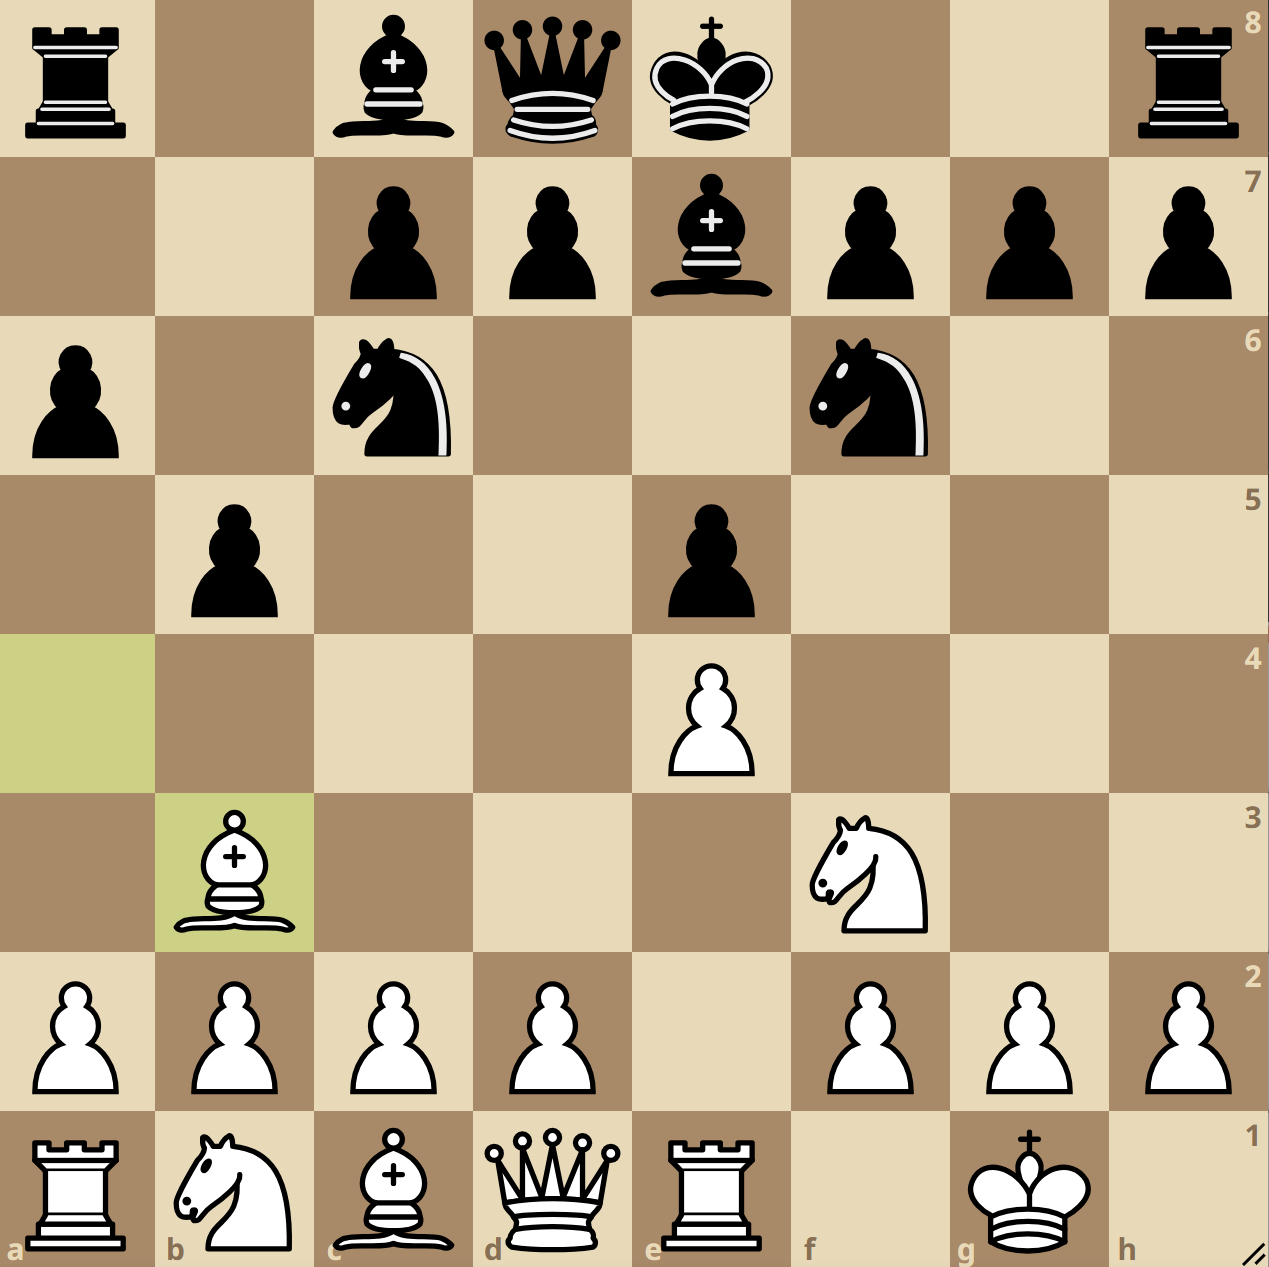
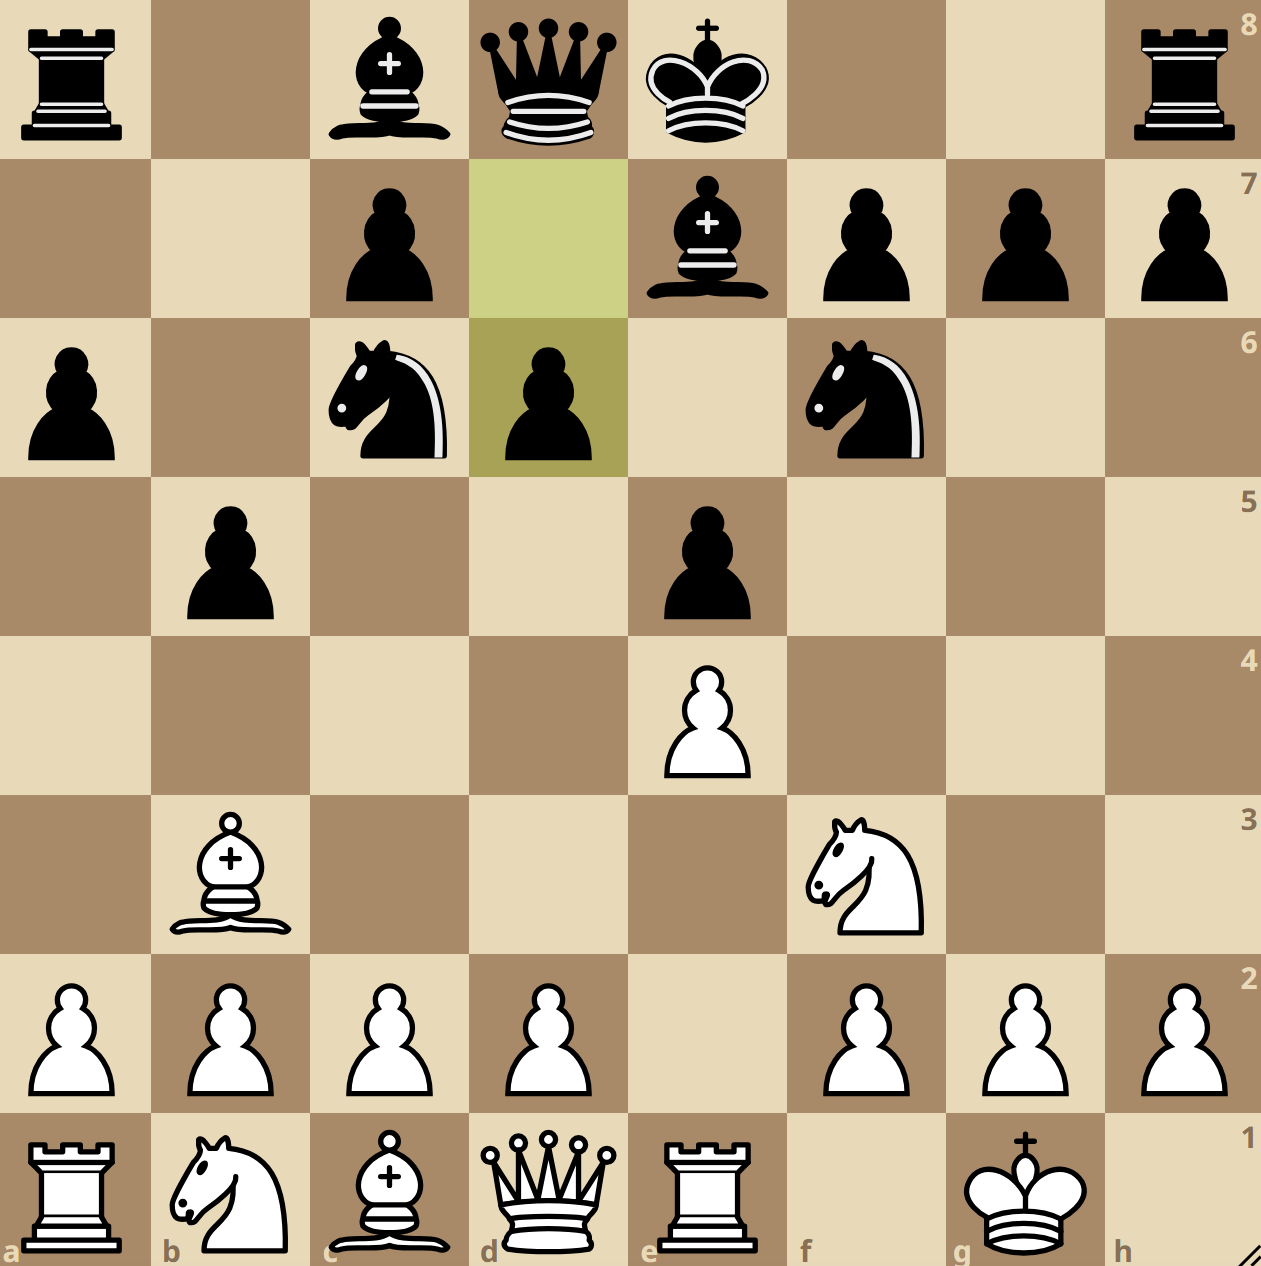
added round 2 of my first post!

diff --git a/public/posts/my-first-post/index.html b/public/posts/my-first-post/index.html
@@ -214,6 +214,24 @@
 					
 				
 			
+				
+				
+					
+						
+						
+						
+						
+						
+							<li>
+								<a href="#round-2" class="nav-round-2">
+									Round 2
+								</a>
+							</li>
+						
+						
+					
+				
+			
 		</ul>
 	</div>
 
@@ -447,21 +465,88 @@ Pawns are just the square alone, so <strong>e4</strong> means &ldquo;pawn to e4&
 <li><strong>O-O</strong> = kingside castle</li>
 <li><strong>O-O-O</strong> = queenside castle</li>
 </ul>
-<p>If you don&rsquo;t understand it thats okay too as this will be more focused on the emotions rather than the actual game itsself.</p>
+<p>If you don&rsquo;t understand it thats okay too as this will be more focused on the emotions rather than the actual game itself.</p>
+<p>One more thing, I will be using the term touch-move, meaning that if you touch a certain piece, you <em>must</em> move that said piece.</p>
 <h2 id="round-1">Round 1</h2>
 <p><em>I would have provided the pictures my mother have took during my games but I have not asked for my opponents consent, so unforunately there will be not many photos here</em></p>
-<p>I was paired against Mahin Ganesan in the first round with the white pieces. He actually went to UVA and graduated a few years ago.</p>
+<p>I was paired against Mahin Ganesan (2241) in the first round with the white pieces. He actually went to UVA and graduated a few years ago.</p>
 <p>The game started off with:</p>
 <ol>
-<li>e4 e5 2. Nf3 Nc6 3. Bb5 a6 4. Ba4 Nf6 5. O-O Be7 6. Re1 b5 7. Bb3</li>
+<li>e4 e5 2. Nf3 Nc6 3. Bb5 a6 4. Ba4 Nf6 5. O-O Be7 6. Re1 b5 7. Bb3 d6</li>
 </ol>
 <p><img src="pos1.png" alt="alt text"></p>
 <p>During the game, my opponent mixed up his lines as he wanted to play d5 to play the Marshall Gambit but hasn&rsquo;t castled yet. Since he touched his d-pawn already, he had to move it (touch-move rule), this is still a real line to play as black, but rather it being more tactical, it&rsquo;s now more of a slow, manuvering game.
 The main line Marshall Gambit follows: 7. &hellip; O-O 8. c3 d5 9. exd5 Nxd5 10. Nxe5 Nxe5 11. Rxe5 c6 12. d4 Bd6 13. Re1 Qh4</p>
-<p>d6 8. c3 Na5 9. h3 Nxb3 10. axb3 c5 11. d3 O-O 12. Nbd2 Qc7 13. Nf1 Re8 14. Ng3 a5 15. Kh1
-<img src="pos2.png" alt="alt text">
-Bd7 16. Qc2 Ra7 17. Be3 Rb8 18. Kg1 Raa8 19. Ra2 a4 20. bxa4 bxa4 21. Rc1 Rb7 22. Nd2 d5 23. Bg5 Qc6 24. d4 cxd4 25. cxd4 Qe6 26. exd5 Nxd5 27. Be3 Nb4 *</p>
-<p>WIP :3</p>
+<ol start="8">
+<li>c3 Na5 9. h3 Nxb3 10. axb3 c5 11. d3 O-O 12. Nbd2 Qc7 13. Nf1 Re8 14. Ng3 a5 15. Kh1
+<img src="pos2.png" alt="alt text"></li>
+</ol>
+<p>During the game, I evaluated the position was me being able to do nothing&ndash;by moving my king back and forth&ndash; but it&rsquo;s incorrect. If I just waited and did nothing, my opponent will eventually roll me down on the queen-side, hence why I should have played Nh4 to eventually get a knight on f5, as in the traditional Spanish lines the square I want is f5 and eventually get a king-side counterattack.</p>
+<p>15 &hellip; Bd7 16. Qc2 Ra7 17. Be3 Rb8 18. Kg1 Raa8
+<img src="pos3.png" alt="alt text"></p>
+<p>A few moves ago, my apponent moved his rook to a7, persumably to double up the rooks on the a-file, but I think he missed the move bishop to e3, pinning the c-pawn to the rook, meaning that if the c-pawn moves, the rook would be under attack he would lose it. Looking very annoyed, he moved his rook back to a1, and I couldn&rsquo;t help but smile.</p>
+<ol start="19">
+<li>Ra2 a4 20. bxa4 bxa4 21. Rc1 Rb7 22. Nd2 d5 23. Bg5 Qc6 24. d4
+<img src="pos4.png" alt="alt text"></li>
+</ol>
+<p>Oops, I blundered a pawn randomly&hellip;</p>
+<ol start="24">
+<li>&hellip; cxd4 25. cxd4 Qe6
+<img src="pos5.png" alt="alt text"></li>
+</ol>
+<p>My opponent got spooked out here actually, because he thought after taking the pawn on d4 after trading the queens, he thought I had e5, but it does not work! He can counterattack my bishop on g5! After I take his knight, he does <em>not</em> take my bishop right away, instead he can play bishop to d6, effectively trapping my bishop.</p>
+<ol start="26">
+<li>exd5 Nxd5 27. Be3
+<img src="pos6.png" alt="alt text"></li>
+</ol>
+<p>The final blunder of the game by me, the position was already difficult to play both practically and under time pressure, and my opponent plays the right move Nb4!, double attacking my rook and queen, effectively ending the game.</p>
+<p>We both analyzed the game after, and I actually found out that his favorite opening is the Marshall Gambit, also my favorite opening! A little bummed that I had a chance in the game, but again he was almost 700 rating points higher than I was.</p>
+<p>Results after round one:
+<img src="results.png" alt="alt text"></p>
+<p>There was actually draw on the first board with a 557 point discrepancy! A wonderful game by the underdog!</p>
+<h2 id="round-2">Round 2</h2>
+<p>I was paired against Jay Bell (1400) with the black pieces.</p>
+<p>The game began as:</p>
+<ol>
+<li>e4 e5 2. Nf3 Nc6 3. d4 exd4 4. Nxd4 Bc5 5. Nxc6 Qf6 6. Qe2 bxc6 7. Nc3 d6 8. g3 Ne7 9. Bg2 Ba6
+<img src="pos7.png" alt="alt text"></li>
+</ol>
+<p>This move looks like that I&rsquo;m giving away my a6 bishop for free, but if he takes it with his queen, I take his f2 pawn with my queen! It&rsquo;s a fork between his king and his light-squared bishop, meaning that I get my bishop back and his king becomes <em>significantly</em> weaker! My opponent did not take bait to his credit.</p>
+<ol start="10">
+<li>Qf3 Bd4 11. Bd2 Rb8 12. Qxf6 Bxf6 13. b3 O-O 14. Rd1 Rfe8 15. f4 Bd4 16. Ne2 Bb6 17. Bc3
+<img src="pos8.png" alt="alt text"></li>
+</ol>
+<p>The computer engine evaluates this position was &ldquo;-2.1&rdquo;, which basically means that this is &ldquo;better&rdquo; for black. The best move suggests going Nd5, threatening to go Ne3, forking the bishop and rook with both cannot be defended. If my opponent took the knight with the pawn, you lose both the knight and the bishop. If my opponent goes bishop back to d2, the line follows: 18. &hellip; Nf6 19. Nc3 d5 20. e5 Ng4 Rc1 21. f6 - White will eventually lose the e5 pawn and will be a pawn down.</p>
+<p>But I took the knight with the bishop on e2, plummeting the engine evaluation down to &ldquo;+0.2&rdquo;, meaning that white is a teeny tiny bit better.</p>
+<ol start="17">
+<li>&hellip; Bxe2 18. Kxe2 d5 19. e5 Ng6 20. a3</li>
+</ol>
+<p><img src="pos9.png" alt="alt text"></p>
+<p>This is similar to the line I showed above, I played the move f3, effectively meaning that I am a pawn up.</p>
+<ol start="20">
+<li>&hellip; f6 21. Rhe1 fxe5 22. fxe5 Nxe5 23. Kd2 Ng6 24. Kc1 Rxe1 25. Rxe1 Rf8 26. Re2 d4 27. Bb2 c5
+<img src="pos10.png" alt="alt text"></li>
+</ol>
+<p>This is a really bad move by me, this effectively blocks in my dark-squared bishop without losing the pawn if my opponent played Bd5+. In the long term, my opponent will gradually bring his king to b5 and use his a-pawn to attack my trapped bishop.</p>
+<p>But thankfully, he misses that move.</p>
+<ol start="28">
+<li>Be4 Re8 29. Kd2 Ne5 30. Bd5+ Kh8 31. b4 c4
+<img src="pos11.png" alt="alt text"></li>
+</ol>
+<p>Another mistake by me, the main idea of this mistake is that my knight is not actually defending the pawn I moved up to c4, as my rook would be under fire at e8! But you cannot take the c4 pawn right away yet, as I <em>can</em> take it with the knight because it&rsquo;s with check. So in this position, you simply move your king to d1 and I&rsquo;ll either simply lose the pawn or have my rook be overloaded with pressure, eventually losing the knight in a few moves.</p>
+<p>But my opponent plays&hellip; 32. Ba1</p>
+<p><img src="pos12.png" alt="alt text"></p>
+<p>I think the most plausable explanation is that my opponent accidentally touched the bishop, as since it was touch-move, he had to move it. I think he got a little bit tilted and moved the bishop to a bad square, already accepting his defeat from that one little mistake. But his position was still fine if he moved the bishop to c1 and not to a1. I couldn&rsquo;t help but to feel bad for him.</p>
+<p>The bishop being on a1 effectively locks it out for the rest of the game, as there is no way for your dark-squared bishop to escape after I play the move c2.</p>
+<ol start="32">
+<li>Ba1 Re7 33. Re4 c3+ 34. Kc1 Ng6 35. Rxe7 Nxe7 36. Be4 c5 37. b5 Kg8 38. Kd1 Kf7 39. Ke2 Ke6 40. Bg2 Ke5 41. Kd3</li>
+</ol>
+<p><img src="pos13.png" alt="alt text"></p>
+<p>This was the final recorded position, I won this game easily by targetting the g and h pawns with my knight and bishop.</p>
+<p>We didn&rsquo;t analyze too much after the game, which I understand because he basically lost a game to an accidential touch.</p>
+<p>The results of round 2:</p>
+<p><img src="results2.png" alt="alt text"></p>
+<p>I was happy that I managed to get a win, even though it was by a technicality.</p>
 
                     
                     <HR width="100%" id="EOF">
@@ -663,6 +748,24 @@ Ported from <a href="https://mak1t0.cc/" target="_blank" rel="noreferrer noopene
 							<li>
 								<a href="#round-1" class="nav-round-1">
 									Round 1
+								</a>
+							</li>
+						
+						
+					
+				
+			
+				
+				
+					
+						
+						
+						
+						
+						
+							<li>
+								<a href="#round-2" class="nav-round-2">
+									Round 2
 								</a>
 							</li>
 						

diff --git a/content/posts/my-first-post/index.md b/content/posts/my-first-post/index.md
@@ -110,25 +110,114 @@ Some special symbols:
 - **O-O** = kingside castle
 - **O-O-O** = queenside castle
 
-If you don't understand it thats okay too as this will be more focused on the emotions rather than the actual game itsself.
+If you don't understand it thats okay too as this will be more focused on the emotions rather than the actual game itself.
+
+One more thing, I will be using the term touch-move, meaning that if you touch a certain piece, you *must* move that said piece.
 
 ## Round 1
 *I would have provided the pictures my mother have took during my games but I have not asked for my opponents consent, so unforunately there will be not many photos here*
 
-I was paired against Mahin Ganesan in the first round with the white pieces. He actually went to UVA and graduated a few years ago.
+I was paired against Mahin Ganesan (2241) in the first round with the white pieces. He actually went to UVA and graduated a few years ago.
 
 The game started off with:
 
-1. e4 e5 2. Nf3 Nc6 3. Bb5 a6 4. Ba4 Nf6 5. O-O Be7 6. Re1 b5 7. Bb3 
+1. e4 e5 2. Nf3 Nc6 3. Bb5 a6 4. Ba4 Nf6 5. O-O Be7 6. Re1 b5 7. Bb3 d6
 
 ![alt text](pos1.png)
 
 During the game, my opponent mixed up his lines as he wanted to play d5 to play the Marshall Gambit but hasn't castled yet. Since he touched his d-pawn already, he had to move it (touch-move rule), this is still a real line to play as black, but rather it being more tactical, it's now more of a slow, manuvering game.
 The main line Marshall Gambit follows: 7. ... O-O 8. c3 d5 9. exd5 Nxd5 10. Nxe5 Nxe5 11. Rxe5 c6 12. d4 Bd6 13. Re1 Qh4 
 
-d6 8. c3 Na5 9. h3 Nxb3 10. axb3 c5 11. d3 O-O 12. Nbd2 Qc7 13. Nf1 Re8 14. Ng3 a5 15. Kh1
+8. c3 Na5 9. h3 Nxb3 10. axb3 c5 11. d3 O-O 12. Nbd2 Qc7 13. Nf1 Re8 14. Ng3 a5 15. Kh1
 ![alt text](pos2.png)
- Bd7 16. Qc2 Ra7 17. Be3 Rb8 18. Kg1 Raa8 19. Ra2 a4 20. bxa4 bxa4 21. Rc1 Rb7 22. Nd2 d5 23. Bg5 Qc6 24. d4 cxd4 25. cxd4 Qe6 26. exd5 Nxd5 27. Be3 Nb4 *
 
-WIP :3
+During the game, I evaluated the position was me being able to do nothing--by moving my king back and forth-- but it's incorrect. If I just waited and did nothing, my opponent will eventually roll me down on the queen-side, hence why I should have played Nh4 to eventually get a knight on f5, as in the traditional Spanish lines the square I want is f5 and eventually get a king-side counterattack.
 
+
+15 ... Bd7 16. Qc2 Ra7 17. Be3 Rb8 18. Kg1 Raa8 
+![alt text](pos3.png)
+
+A few moves ago, my apponent moved his rook to a7, persumably to double up the rooks on the a-file, but I think he missed the move bishop to e3, pinning the c-pawn to the rook, meaning that if the c-pawn moves, the rook would be under attack he would lose it. Looking very annoyed, he moved his rook back to a1, and I couldn't help but smile.
+
+
+19. Ra2 a4 20. bxa4 bxa4 21. Rc1 Rb7 22. Nd2 d5 23. Bg5 Qc6 24. d4 
+![alt text](pos4.png)
+
+Oops, I blundered a pawn randomly...
+
+24. ... cxd4 25. cxd4 Qe6 
+![alt text](pos5.png)
+
+My opponent got spooked out here actually, because he thought after taking the pawn on d4 after trading the queens, he thought I had e5, but it does not work! He can counterattack my bishop on g5! After I take his knight, he does *not* take my bishop right away, instead he can play bishop to d6, effectively trapping my bishop.
+
+26. exd5 Nxd5 27. Be3
+![alt text](pos6.png)
+
+The final blunder of the game by me, the position was already difficult to play both practically and under time pressure, and my opponent plays the right move Nb4!, double attacking my rook and queen, effectively ending the game.
+
+We both analyzed the game after, and I actually found out that his favorite opening is the Marshall Gambit, also my favorite opening! A little bummed that I had a chance in the game, but again he was almost 700 rating points higher than I was.
+
+Results after round one:
+![alt text](results.png)
+
+There was actually draw on the first board with a 557 point discrepancy! A wonderful game by the underdog!
+
+## Round 2
+
+I was paired against Jay Bell (1400) with the black pieces.
+
+The game began as:
+
+1. e4 e5 2. Nf3 Nc6 3. d4 exd4 4. Nxd4 Bc5 5. Nxc6 Qf6 6. Qe2 bxc6 7. Nc3 d6 8. g3 Ne7 9. Bg2 Ba6
+![alt text](pos7.png)
+
+This move looks like that I'm giving away my a6 bishop for free, but if he takes it with his queen, I take his f2 pawn with my queen! It's a fork between his king and his light-squared bishop, meaning that I get my bishop back and his king becomes *significantly* weaker! My opponent did not take bait to his credit.
+
+10. Qf3 Bd4 11. Bd2 Rb8 12. Qxf6 Bxf6 13. b3 O-O 14. Rd1 Rfe8 15. f4 Bd4 16. Ne2 Bb6 17. Bc3
+![alt text](pos8.png)
+
+The computer engine evaluates this position was "-2.1", which basically means that this is "better" for black. The best move suggests going Nd5, threatening to go Ne3, forking the bishop and rook with both cannot be defended. If my opponent took the knight with the pawn, you lose both the knight and the bishop. If my opponent goes bishop back to d2, the line follows: 18. ... Nf6 19. Nc3 d5 20. e5 Ng4 Rc1 21. f6 - White will eventually lose the e5 pawn and will be a pawn down. 
+
+But I took the knight with the bishop on e2, plummeting the engine evaluation down to "+0.2", meaning that white is a teeny tiny bit better.
+
+
+17. ... Bxe2 18. Kxe2 d5 19. e5 Ng6 20. a3 
+
+![alt text](pos9.png)
+
+This is similar to the line I showed above, I played the move f3, effectively meaning that I am a pawn up.
+
+
+20. ... f6 21. Rhe1 fxe5 22. fxe5 Nxe5 23. Kd2 Ng6 24. Kc1 Rxe1 25. Rxe1 Rf8 26. Re2 d4 27. Bb2 c5
+![alt text](pos10.png)
+
+This is a really bad move by me, this effectively blocks in my dark-squared bishop without losing the pawn if my opponent played Bd5+. In the long term, my opponent will gradually bring his king to b5 and use his a-pawn to attack my trapped bishop.
+
+But thankfully, he misses that move.
+
+ 28. Be4 Re8 29. Kd2 Ne5 30. Bd5+ Kh8 31. b4 c4
+![alt text](pos11.png)
+
+Another mistake by me, the main idea of this mistake is that my knight is not actually defending the pawn I moved up to c4, as my rook would be under fire at e8! But you cannot take the c4 pawn right away yet, as I *can* take it with the knight because it's with check. So in this position, you simply move your king to d1 and I'll either simply lose the pawn or have my rook be overloaded with pressure, eventually losing the knight in a few moves.
+
+But my opponent plays... 32. Ba1
+
+![alt text](pos12.png)
+
+I think the most plausable explanation is that my opponent accidentally touched the bishop, as since it was touch-move, he had to move it. I think he got a little bit tilted and moved the bishop to a bad square, already accepting his defeat from that one little mistake. But his position was still fine if he moved the bishop to c1 and not to a1. I couldn't help but to feel bad for him.
+
+The bishop being on a1 effectively locks it out for the rest of the game, as there is no way for your dark-squared bishop to escape after I play the move c2.
+
+ 32. Ba1 Re7 33. Re4 c3+ 34. Kc1 Ng6 35. Rxe7 Nxe7 36. Be4 c5 37. b5 Kg8 38. Kd1 Kf7 39. Ke2 Ke6 40. Bg2 Ke5 41. Kd3 
+
+ ![alt text](pos13.png)
+
+ This was the final recorded position, I won this game easily by targetting the g and h pawns with my knight and bishop.
+
+ We didn't analyze too much after the game, which I understand because he basically lost a game to an accidential touch.
+
+ The results of round 2:
+
+ ![alt text](results2.png)
+
+I was happy that I managed to get a win, even though it was by a technicality.
